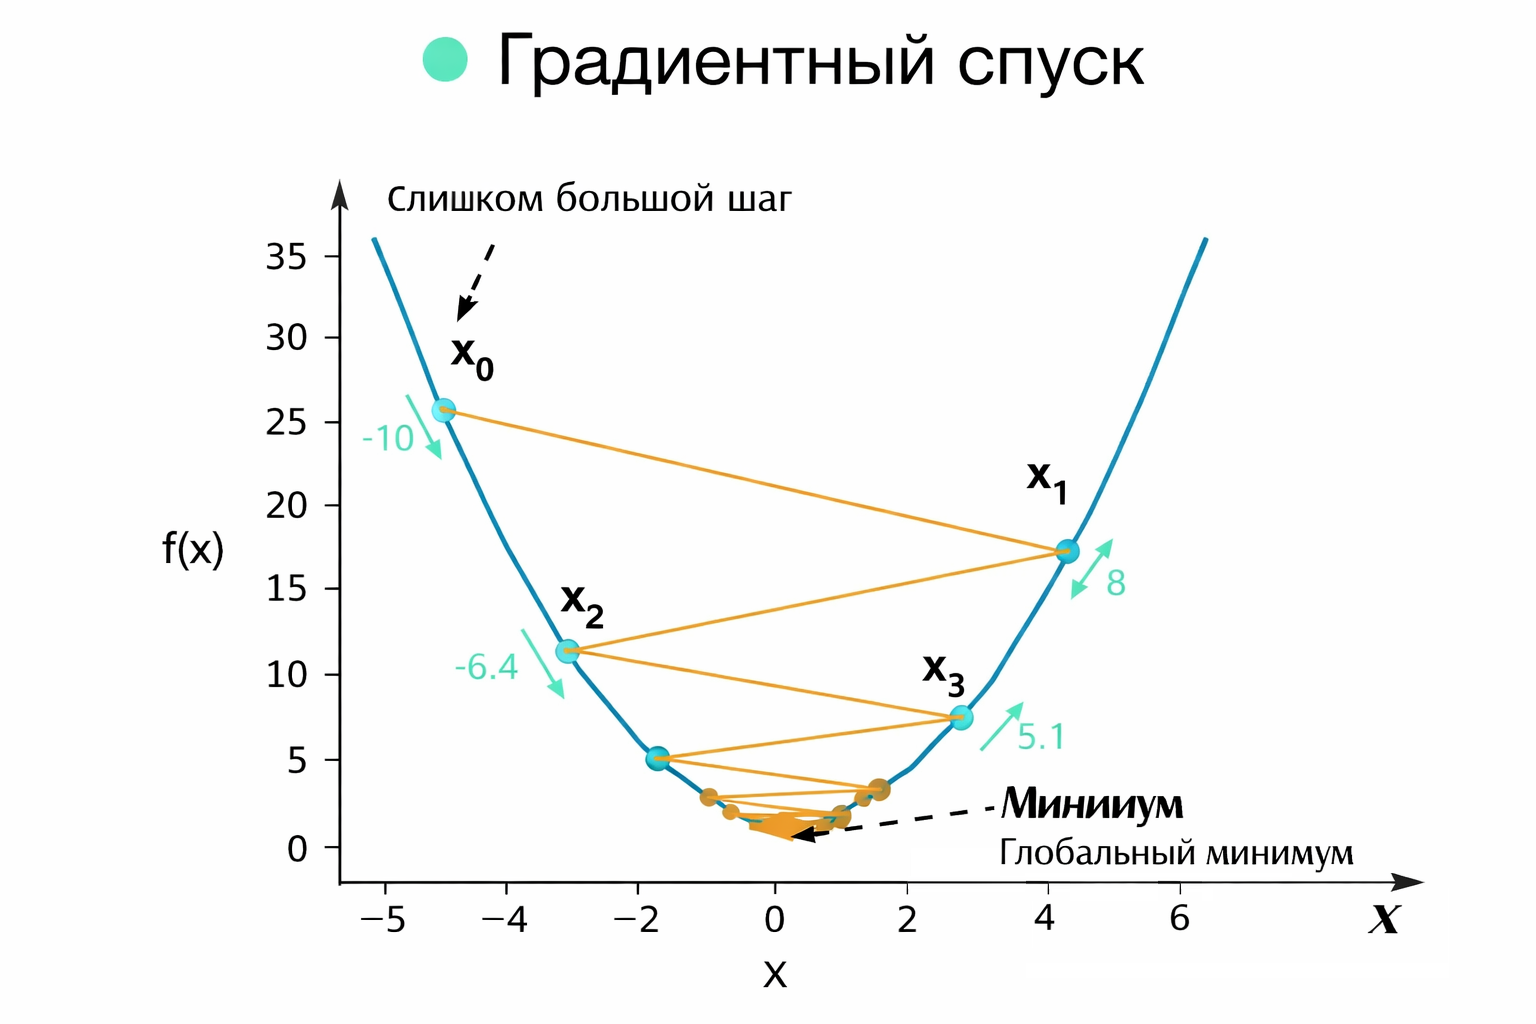
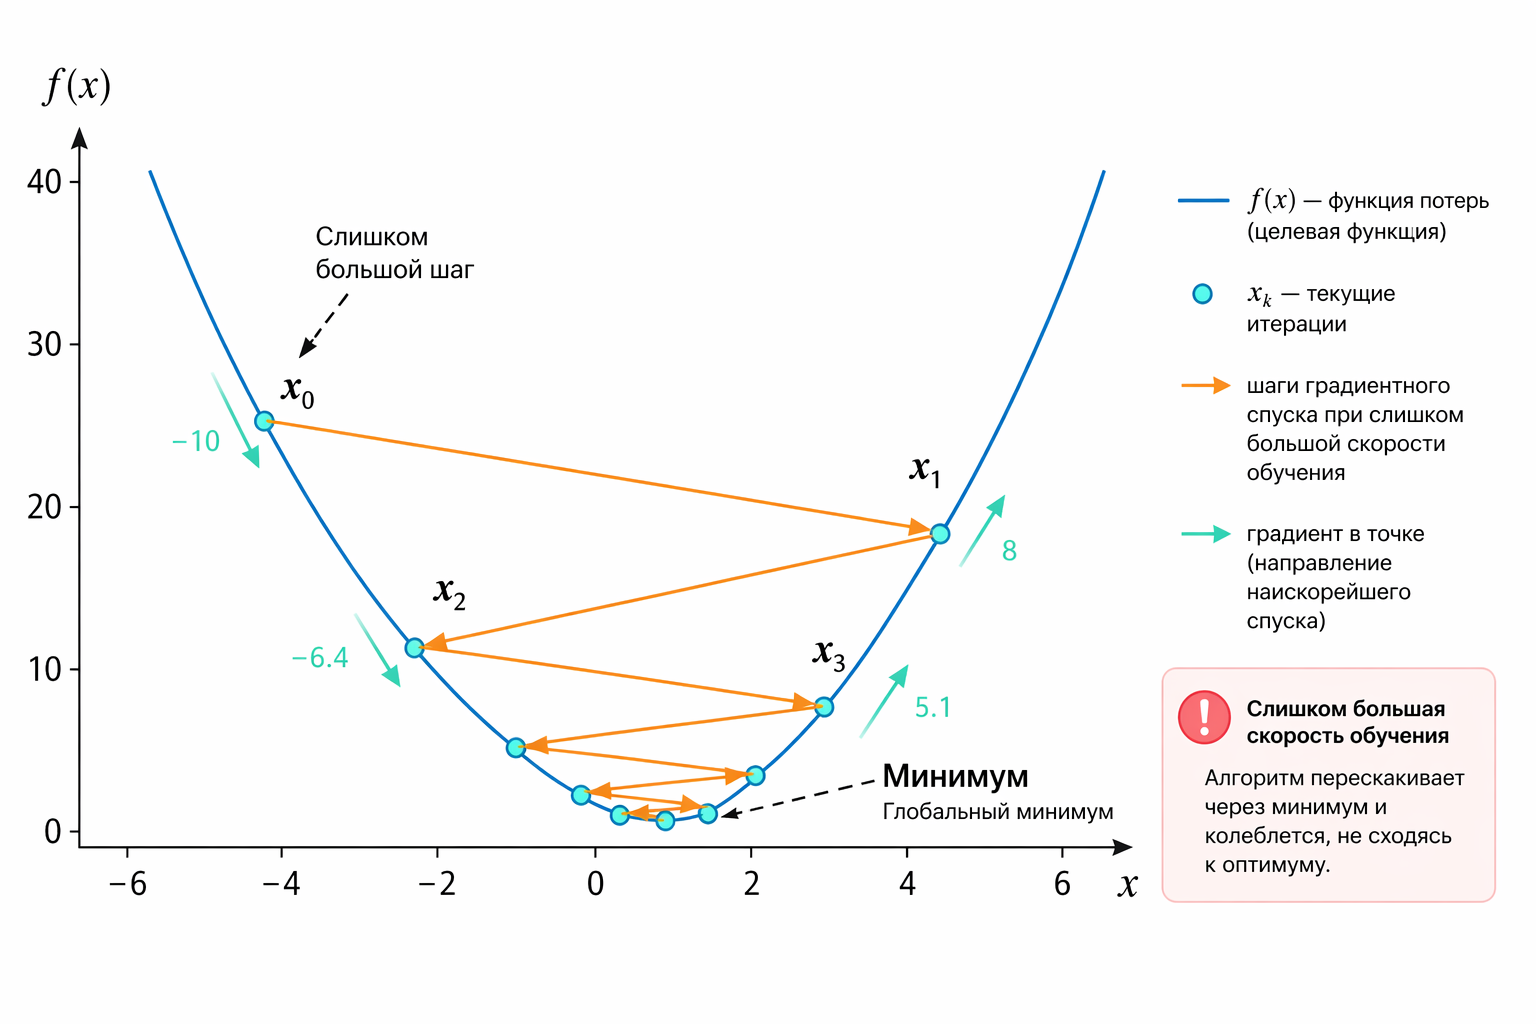
GITBOOK-806: No subject

diff --git a/ru/chast-ii.-obuchenie-kak-optimizaciya/gradientnyi-spusk-na-palcakh/README.md b/ru/chast-ii.-obuchenie-kak-optimizaciya/gradientnyi-spusk-na-palcakh/README.md
@@ -28,7 +28,7 @@ description: Почему производная – это направлени
 
 Мы как будто идем по гористой местности и хотим спуститься в самую низкую точку – в минимум.
 
-<div align="left"><figure><img src="../../.gitbook/assets/12.1-error-graph-like-a-hill.png" alt="" width="563"><figcaption><p>12.1 График ошибки как холм</p></figcaption></figure></div>
+<div align="left"><figure><img src="../../.gitbook/assets/12.1-error-graph-like-a-hill.png" alt=""><figcaption><p>12.1 График ошибки как холм</p></figcaption></figure></div>
 
 ### Почему "спуск"
 
@@ -56,7 +56,7 @@ $$
 
 Геометрически производная – это тангенс угла наклона касательной к графику.
 
-<div align="left"><figure><img src="../../.gitbook/assets/12.2-tangent-to-graph.png" alt="" width="563"><figcaption><p>12.2 График функции и касательная, показывающая наклон</p></figcaption></figure></div>
+<div align="left"><figure><img src="../../.gitbook/assets/12.2-tangent-to-graph.png" alt=""><figcaption><p>12.2 График функции и касательная, показывающая наклон</p></figcaption></figure></div>
 
 ### Почему производная – это направление движения
 
@@ -93,7 +93,7 @@ $$
 
 Если шаг слишком большой, мы не спускаемся, а начинаем перепрыгивать минимум. Сначала – слева от него, потом – справа, затем – снова слева. Ошибка не уменьшается, а скачет.
 
-<div align="left"><figure><img src="../../.gitbook/assets/12.3-chart-with-jumping-minimum.png" alt="" width="563"><figcaption><p>12.3 График с перескакиванием минимума</p></figcaption></figure></div>
+<div align="left"><figure><img src="../../.gitbook/assets/12.3-chart-with-jumping-minimum.png" alt=""><figcaption><p>12.3 График с перескакиванием минимума</p></figcaption></figure></div>
 
 Если же шаг слишком маленький, обучение становится мучительно медленным. Мы вроде бы движемся в правильном направлении, но настолько медленно, что кажется, будто модель вообще не обучается.
 
@@ -241,7 +241,7 @@ $$
 
 И снова никакой магии. Мы просто идем вниз по самому крутому склону.
 
-<div align="left"><figure><img src="../../.gitbook/assets/12.4-error-surface-and-gradient-vector.png" alt="" width="563"><figcaption><p>12.4 3D-поверхность ошибки и вектор градиента</p></figcaption></figure></div>
+<div align="left"><figure><img src="../../.gitbook/assets/12.4-error-surface-and-gradient-vector.png" alt=""><figcaption><p>12.4 3D-поверхность ошибки и вектор градиента</p></figcaption></figure></div>
 
 ### Почему без производных никуда
 

diff --git a/ru/chast-ii.-obuchenie-kak-optimizaciya/lineinaya-regressiya-kak-bazovaya-model/README.md b/ru/chast-ii.-obuchenie-kak-optimizaciya/lineinaya-regressiya-kak-bazovaya-model/README.md
@@ -192,7 +192,7 @@ $$
 
 Если у нас один признак, то данные – это точки на плоскости $$(x, y)$$. Модель – это прямая. Обучение линейной регрессии означает поиск такой прямой, которая проходит "как можно ближе" к этим точкам. Близость измеряется суммой квадратов ошибок.
 
-<div align="left"><figure><img src="../../.gitbook/assets/11.1-points-and-approximating-line.png" alt="" width="563"><figcaption><p>11.1 Точки данных и аппроксимирующая прямая, которая минимизирует сумму квадратов вертикальных отклонений</p></figcaption></figure></div>
+<div align="left"><figure><img src="../../.gitbook/assets/11.1-points-and-approximating-line.png" alt=""><figcaption><p>11.1 Точки данных и аппроксимирующая прямая, которая минимизирует сумму квадратов вертикальных отклонений</p></figcaption></figure></div>
 
 Вертикальные отрезки от точек до прямой – это и есть ошибки предсказания.
 
@@ -206,7 +206,7 @@ $$
 
 С этой точки зрения линейная регрессия – это задача подбора такого направления в пространстве признаков, которое лучше всего объясняет данные.
 
-<div align="left"><figure><img src="../../.gitbook/assets/11.2-vectors-and-projection.png" alt="" width="563"><figcaption><p>11.2 Векторы x, w и проекция на направление w</p></figcaption></figure></div>
+<div align="left"><figure><img src="../../.gitbook/assets/11.2-vectors-and-projection.png" alt=""><figcaption><p>11.2 Векторы x, w и проекция на направление w</p></figcaption></figure></div>
 
 ### Как находятся веса
 
@@ -399,7 +399,7 @@ $$
 
 На каждом шаге параметры немного сдвигаются в сторону уменьшения ошибки.
 
-<div align="left"><figure><img src="../../.gitbook/assets/11.3-error-surface-and-gradient-descent.png" alt="" width="563"><figcaption><p>11.3 Поверхность ошибки и шаги градиентного спуска</p></figcaption></figure></div>
+<div align="left"><figure><img src="../../.gitbook/assets/11.3-error-surface-and-gradient-descent.png" alt=""><figcaption><p>11.3 Поверхность ошибки и шаги градиентного спуска</p></figcaption></figure></div>
 
 ### Аналитическое решение vs градиентный спуск
 

diff --git a/ru/chast-ii.-obuchenie-kak-optimizaciya/gradientnyi-spusk-na-palcakh/eksperimenty-s-gradientnym-spuskom/primer-3.-plato-i-pochti-nulevoi-gradient.md b/ru/chast-ii.-obuchenie-kak-optimizaciya/gradientnyi-spusk-na-palcakh/eksperimenty-s-gradientnym-spuskom/primer-3.-plato-i-pochti-nulevoi-gradient.md
@@ -36,7 +36,7 @@ $$
 
 Главное отличие от предыдущих примеров – форма функции. Вблизи минимума она становится очень "плоской". Это пример области с почти нулевым градиентом (иногда её неформально называют плато).
 
-<div align="left"><figure><img src="../../../.gitbook/assets/12.5-function-and-its-derivative.png" alt="" width="437"><figcaption><p>12.5 Функция и её производная</p></figcaption></figure></div>
+<div align="left"><figure><img src="../../../.gitbook/assets/12.5-function-and-its-derivative.png" alt=""><figcaption><p>12.5 Функция L(w) = (w - 3)⁴ и её производная</p></figcaption></figure></div>
 
 #### Реализация на PHP
 

diff --git a/ru/vvedenie/o-knige/istoriya-izmenenii-knigi.md b/ru/vvedenie/o-knige/istoriya-izmenenii-knigi.md
@@ -27,6 +27,8 @@
 * улучшены изображения для главы "Расстояния и сходство"
 * улучшены изображения для главы "Ошибка, loss-функции и зачем они нужны"
 * переработан "Кейс 3. Кредитный скоринг с Decision Tree" в главе "Decision Trees и разбиение пространства"
+* улучшены изображения для главы "Линейная регрессия как базовая модель"
+* улучшены изображения для главы "Градиентный спуск на пальцах"
 
 ### _Март 2026_
 
